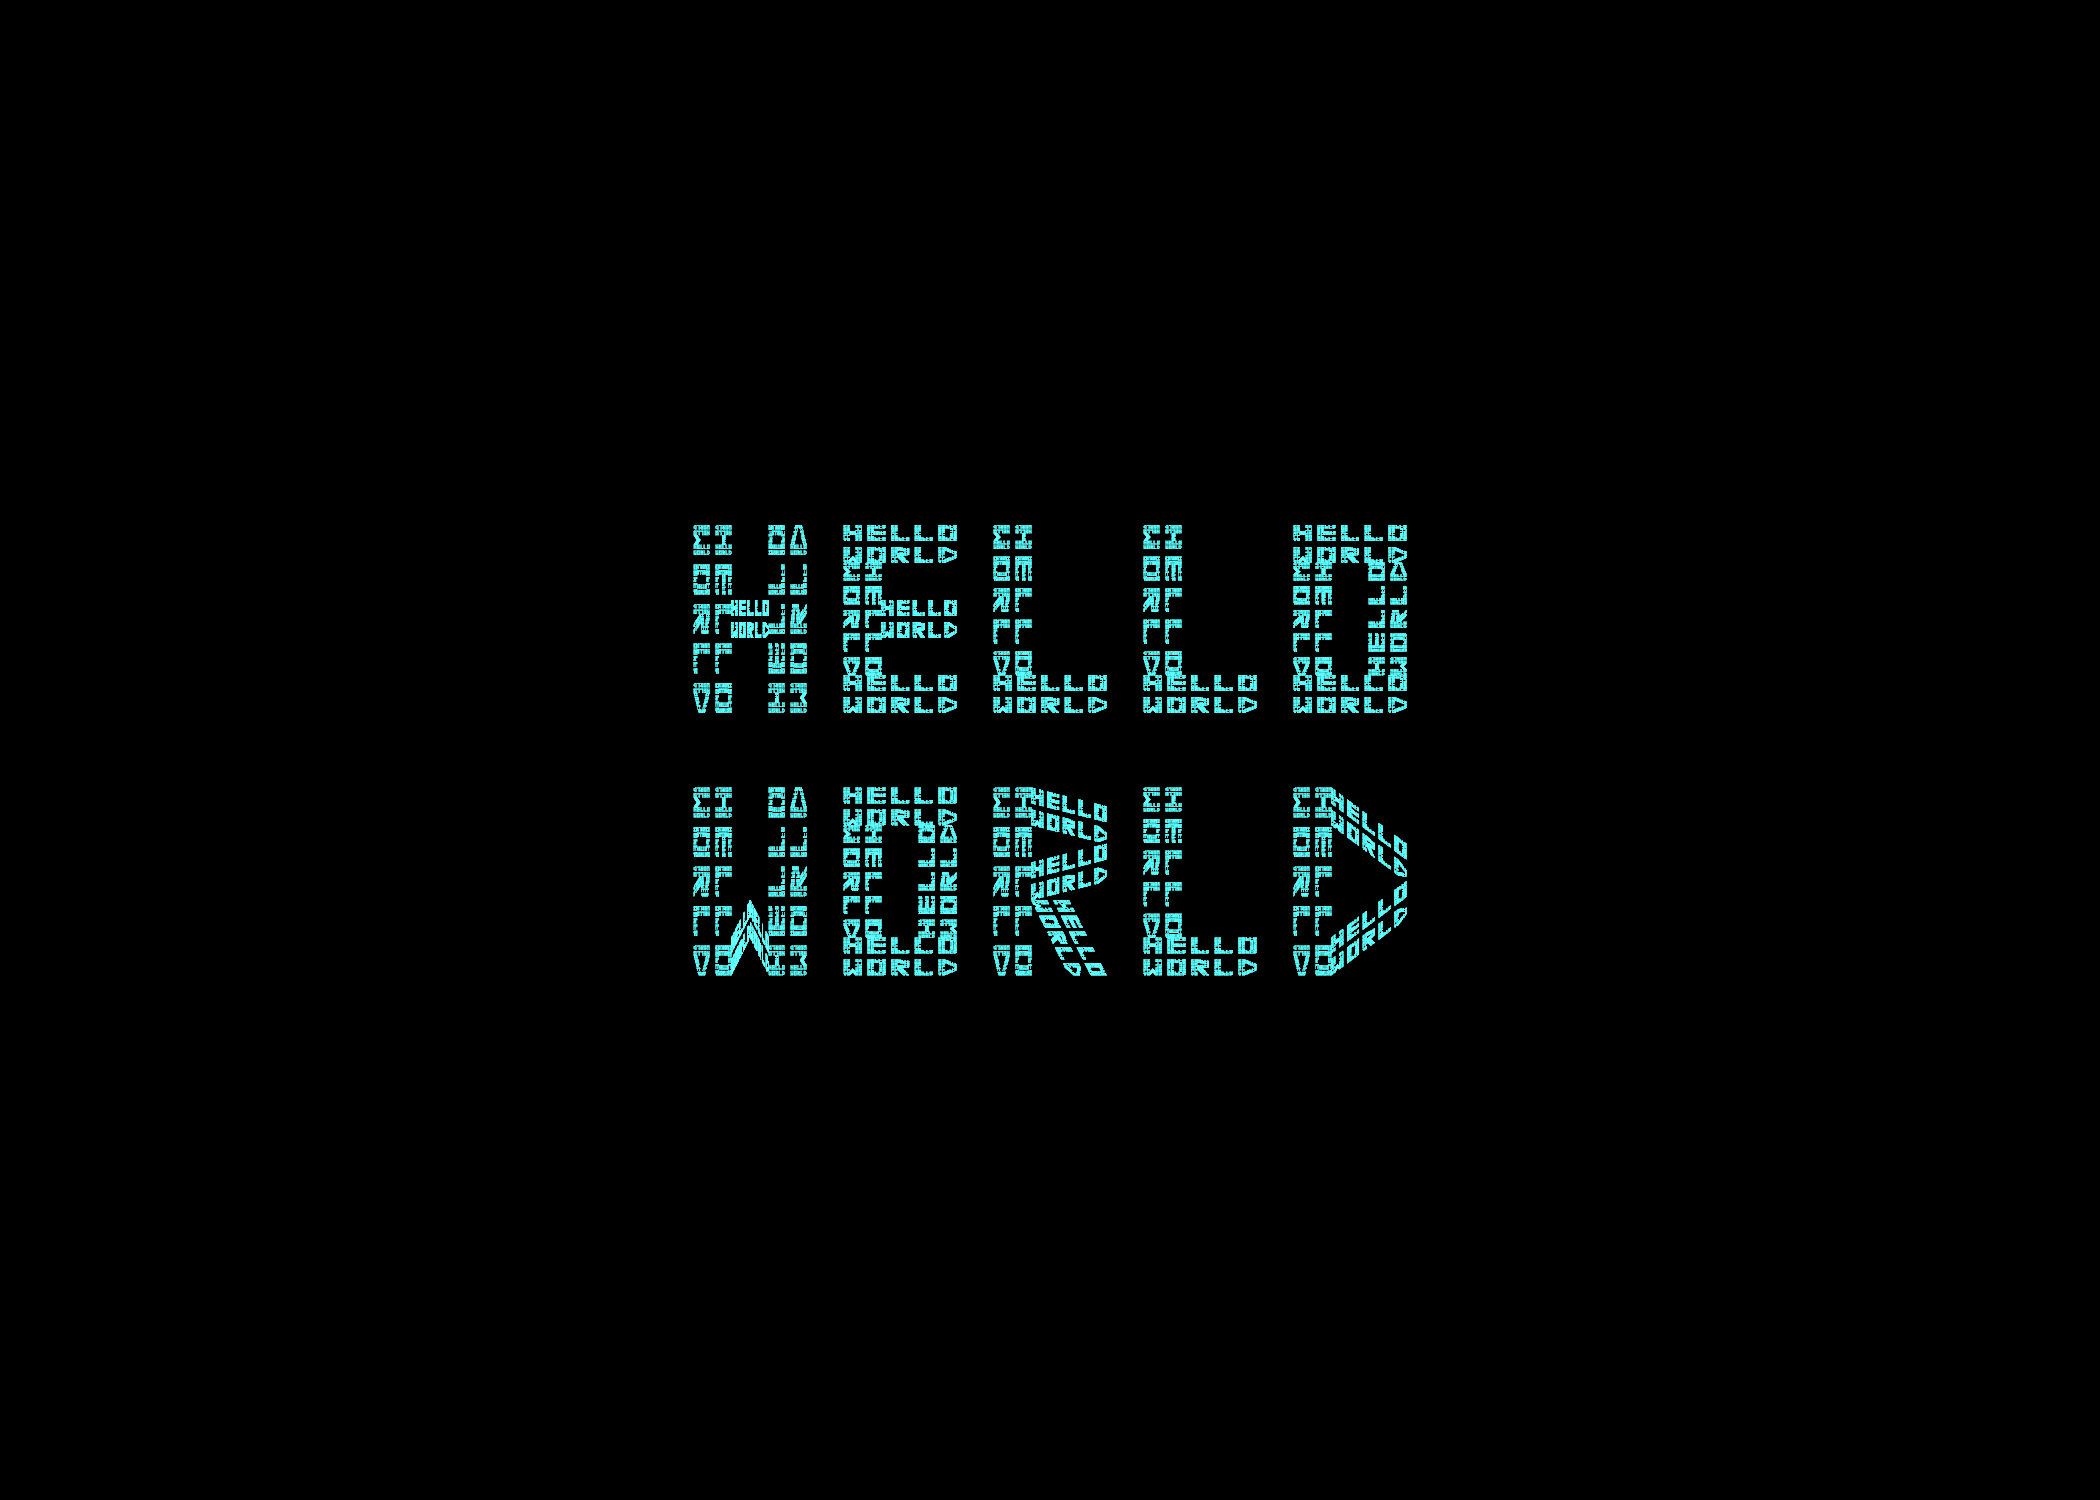
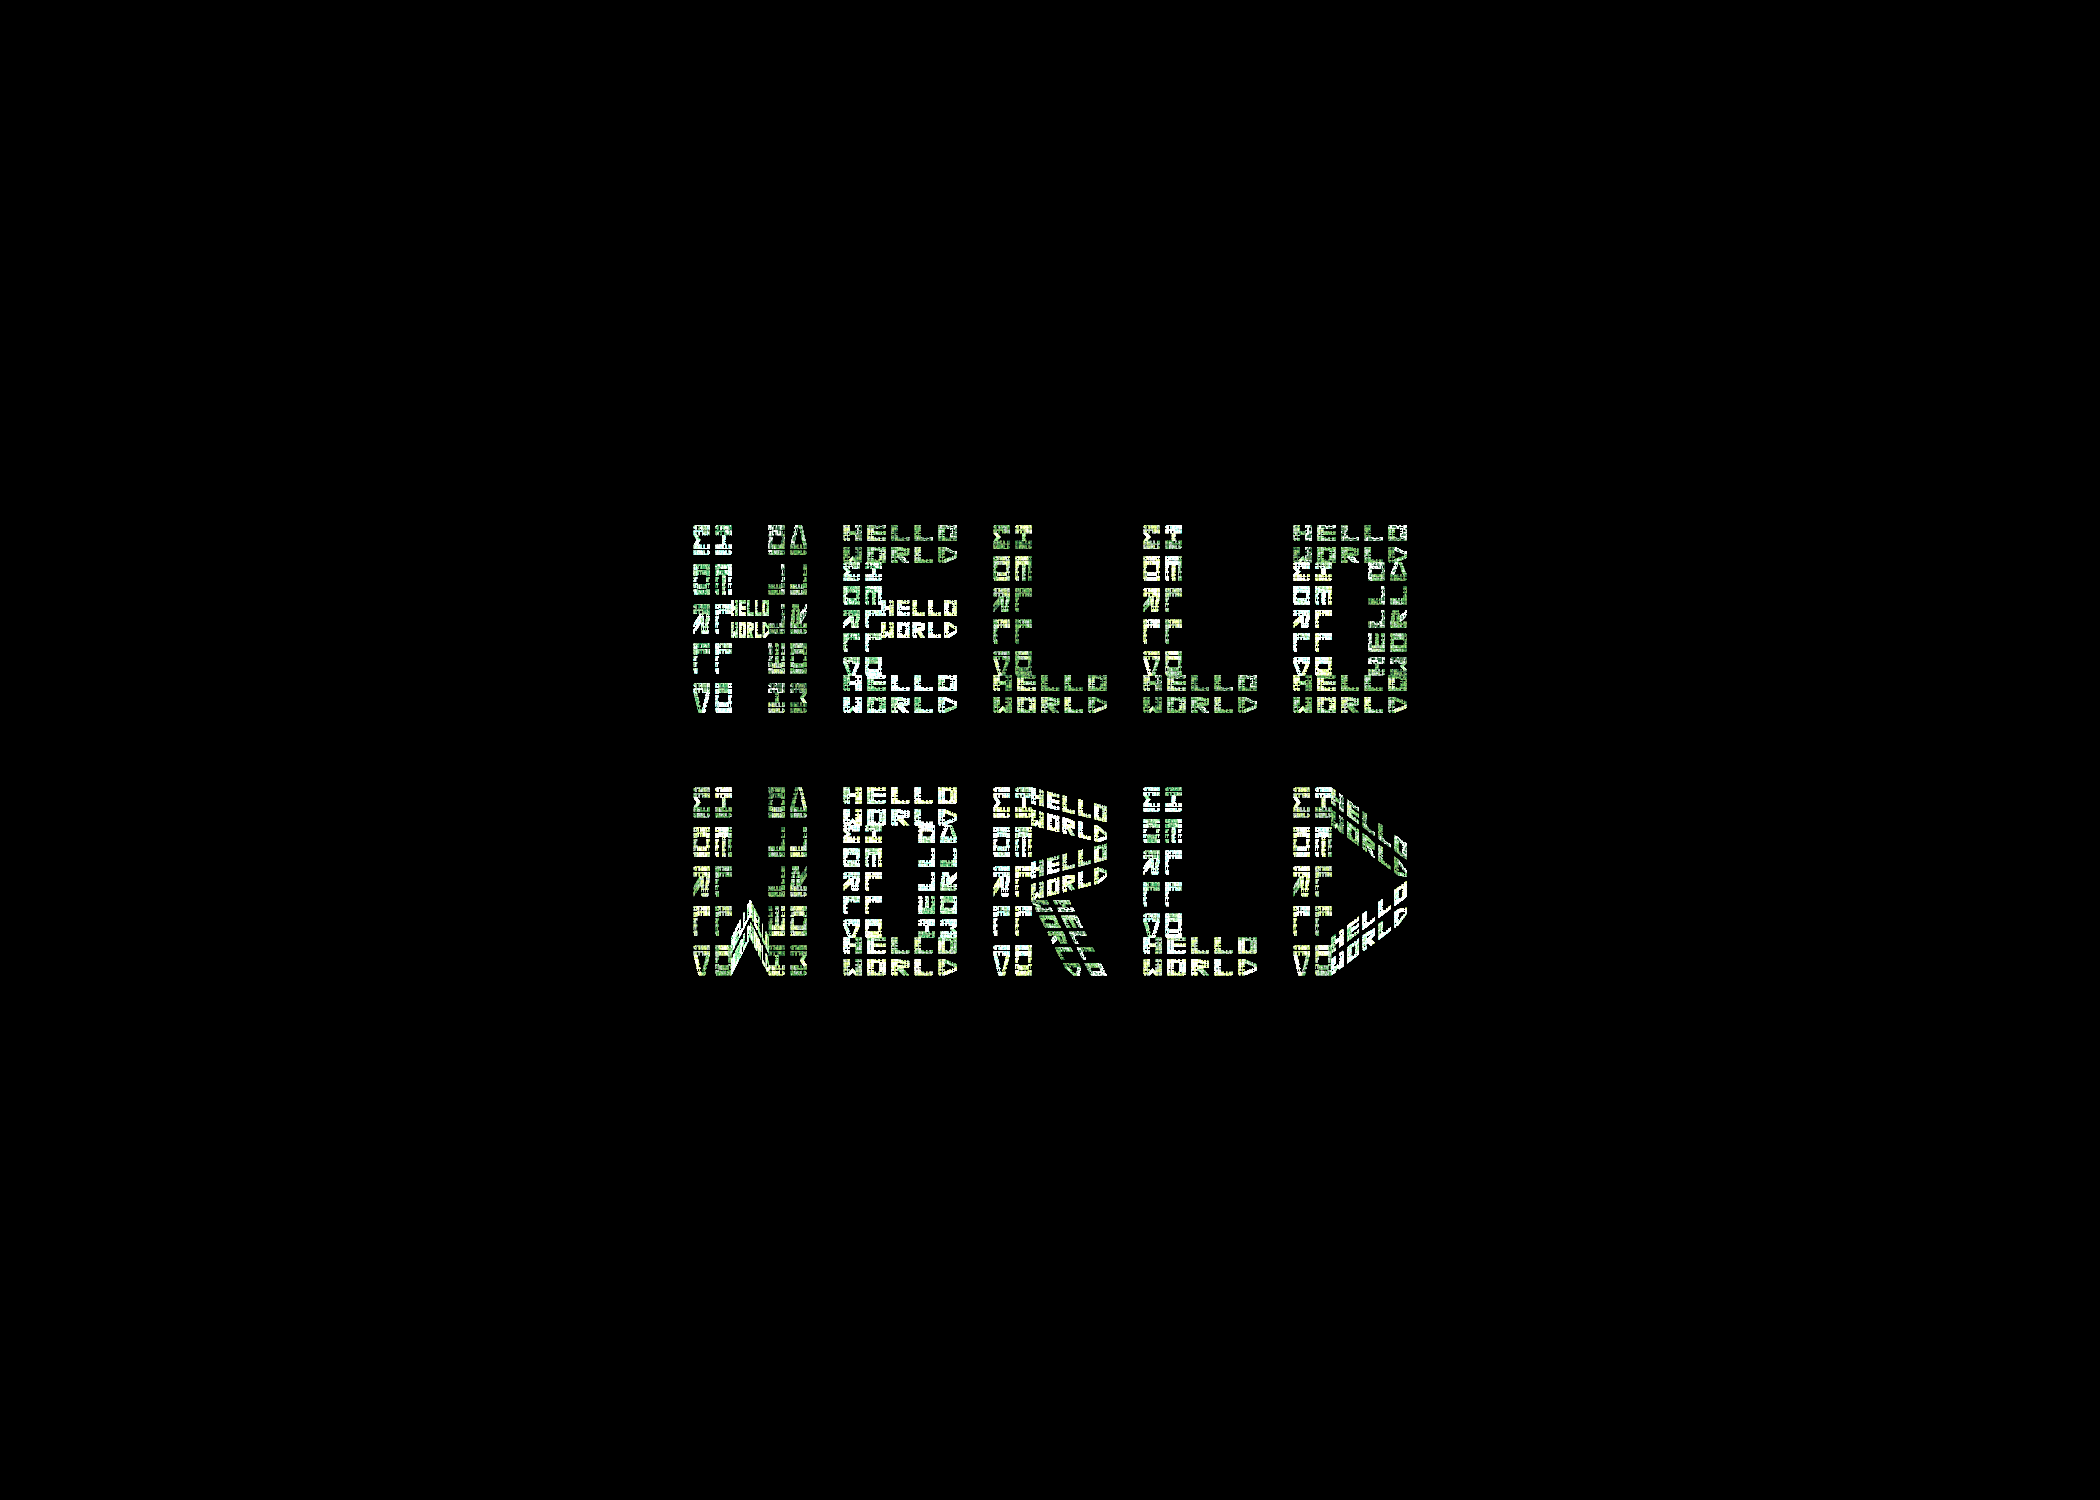
Randomize the colors

Changed region(s): [[0.3095, 0.3373, 0.681, 0.4907], [0.3095, 0.5213, 0.681, 0.6747]]

diff --git a/xform.py b/xform.py
@@ -1,3 +1,5 @@
+import random
+
 class XForm(object):
     def __init__(self, label, coeffs):
         """
@@ -12,6 +14,7 @@ class XForm(object):
         """
         self.label = label
         self.coeffs = self.reformat_coeffs(coeffs)
+        self.color = random.random()
 
     def __str__(self):
         """
@@ -20,8 +23,9 @@ class XForm(object):
         coeff_str = ' '.join('{:.4f}'.format(x) for x in self.coeffs)
 
         return (
-            '<xform weight="0.5" color="0" linear="1" coefs="{}" '
-            'opacity="1" name="{}" />').format(coeff_str, self.label)
+            '<xform weight="0.5" color="{:.3f}" linear="1" coefs="{}" '
+            'opacity="1" name="{}" />').format(
+                self.color, coeff_str, self.label)
 
     @classmethod
     def reformat_coeffs(cls, coeffs):
